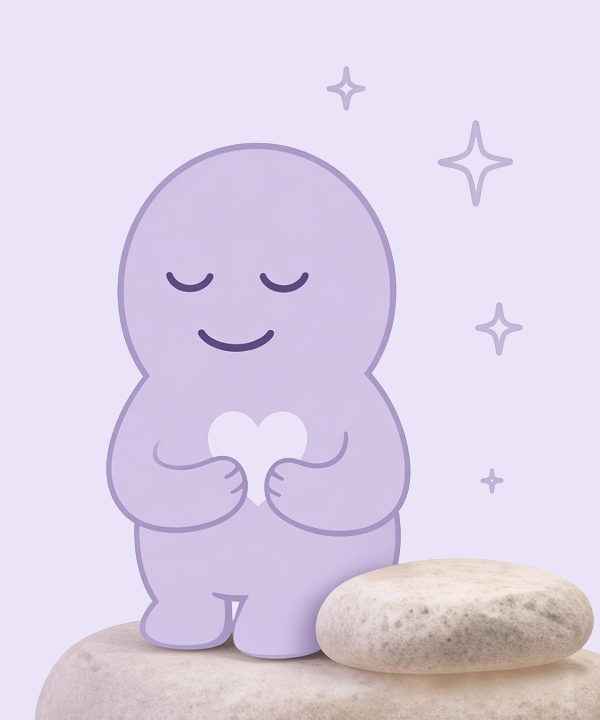
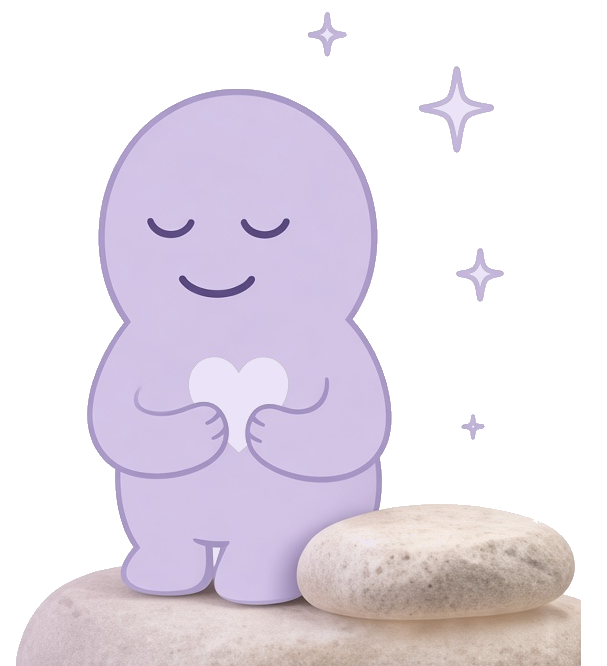
Make generated Lumi mascot background transparent.
Retain mascot, heart, stones and sparkles; remove lavender image rectangle.

diff --git a/public/landing.html b/public/landing.html
@@ -246,7 +246,7 @@
               <div class="lumi-accent__quote-block">
                 <p class="lumi-book__steps-quote" data-i18n="lumiStepsQuote">Маленькие шаги<br />к большим<br />изменениям</p>
               </div>
-              <img class="lumi-book__illustration" src="./landing/lumi-mascot.png" alt="" width="600" height="720" loading="lazy" decoding="async" />
+              <img class="lumi-book__illustration" src="./landing/lumi-mascot.png" alt="" width="607" height="666" loading="lazy" decoding="async" />
             </div>
           </aside>
         </div>
